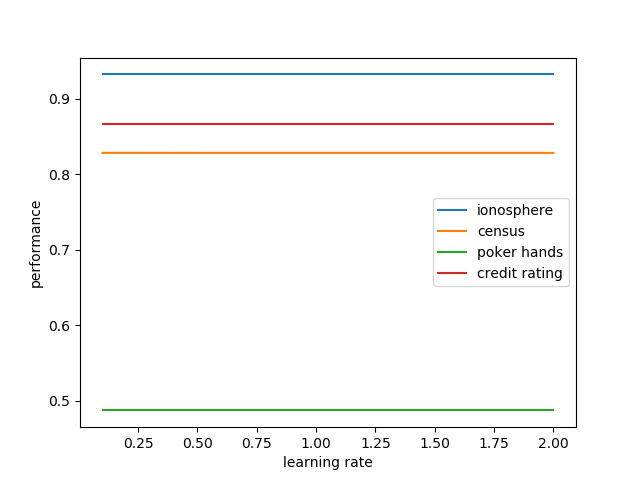
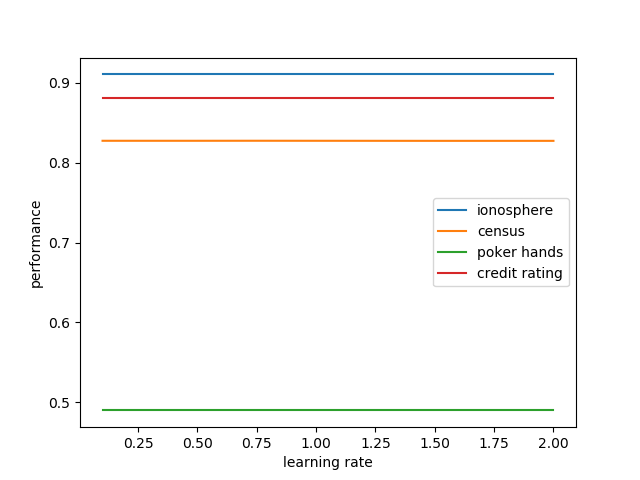
fix k-fold, regenerate graphs

diff --git a/test_models.py b/test_models.py
@@ -6,7 +6,7 @@ import LogRegression
 from sklearn.utils import shuffle
 import matplotlib.pyplot as plt
 
-def run_k_folds(model, fold_list):
+def run_k_folds(params, fold_list):
 	perf = 0
 	for train_validate_set in fold_list:
 
@@ -18,7 +18,8 @@ def run_k_folds(model, fold_list):
 
 		# print("train shape {} type {}" .format(train_X.shape, train_X.dtype))
 		# print("v shape {} type {}".format(validate_X.shape, validate_X.dtype))
-
+		x,y,z = params
+		model = LogRegression.Log_Regression(x,y,z)
 		model.fit(train_X, train_y)
 		y_h = model.predict(validate_X)
 
@@ -252,11 +253,10 @@ def k_fold_split(x1, x2, y, k):
 # list of iteration lengths
 def test_lr_vs_its(dataset, lr_list):
 	x, y, x_t, y_t = testImport.read_data(dataset, 1)
-	folds = k_fold(x,y,5)
 	result = []
 	for lr in lr_list:
 		model = LogRegression.Log_Regression(lr, 0.005, 25000)
-		run_k_folds(model, folds)
+		model.fit(x,y)
 		result.append(model.compute_avg_its())
 	return result
 
@@ -274,8 +274,7 @@ def test_lr_vs_perf(dataset, lr_list):
 	folds = k_fold(x,y,5)
 	result = []
 	for lr in lr_list:
-		model = LogRegression.Log_Regression(lr, 0.005, 25000)
-		perf = run_k_folds(model, folds)
+		perf = run_k_folds((lr, 0.005, 25000), folds)
 		result.append(perf)
 	return result
 
@@ -343,4 +342,6 @@ def test():
 	plt.show()
 
 if __name__ == "__main__":
-	d_vs_perf([100, 75, 50, 25, 20, 15, 10, 5])
+	lr_vs_its([2,1.75,1.5,1.25,1,0.75,0.5,0.25,0.1])
+	plt.clf()
+	lr_vs_perf([2,1.75,1.5,1.25,1,0.75,0.5,0.25,0.1])
